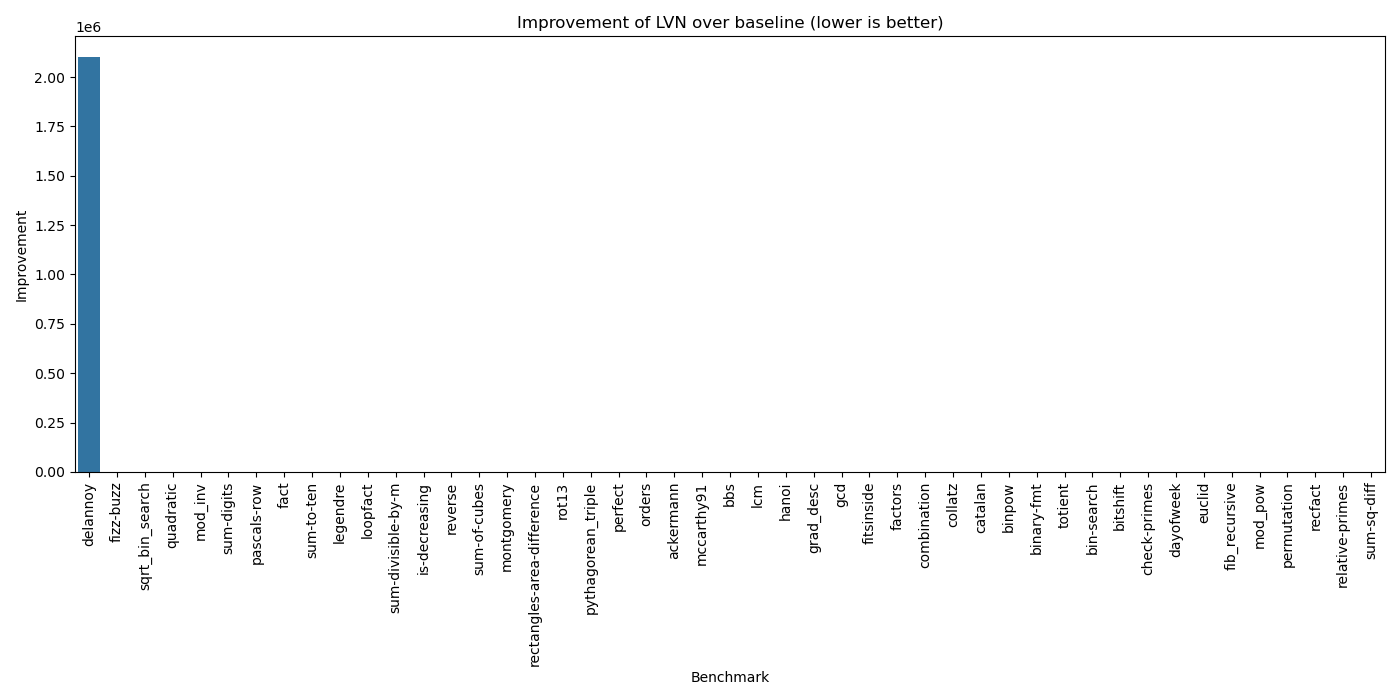
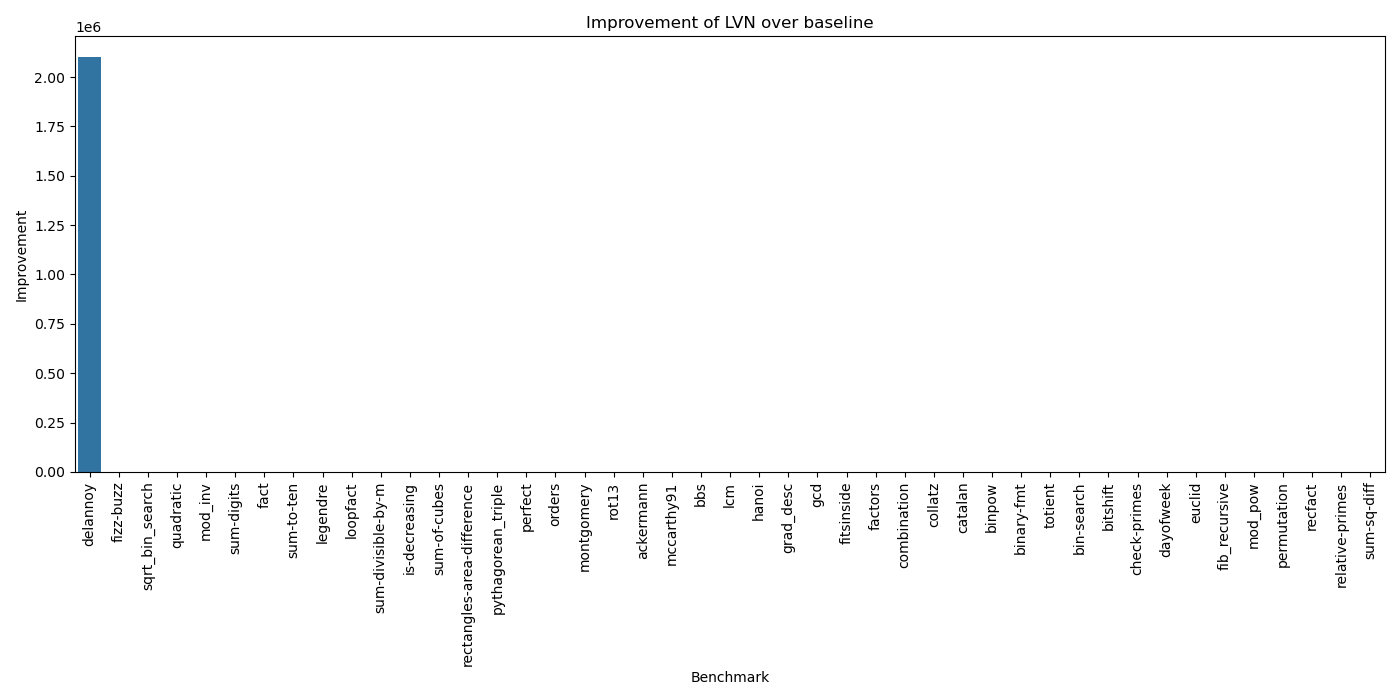
task 7

Changed region(s): [[0.0614, 0.69, 0.9829, 0.93], [0.3686, 0.0, 0.6757, 0.06]]

diff --git a/cs6120/Task2/analysis.py b/cs6120/Task2/analysis.py
@@ -3,7 +3,7 @@ import matplotlib.pyplot as plt
 import seaborn as sns
 
 # Load CSV
-file_path = "./tdce-results.csv"
+file_path = "./lvn-results.csv"
 df = pd.read_csv(file_path)
 
 # Keep track of incorrect/missing/timeout
@@ -18,7 +18,7 @@ df_clean["result"] = df_clean["result"].astype(int)
 pivot_df = df_clean.pivot(index="benchmark", columns="run", values="result").reset_index()
 
 # Compute improvements
-pivot_df["improvement"] = pivot_df["baseline"] - pivot_df["tdce"]
+pivot_df["improvement"] = pivot_df["baseline"] - pivot_df["LVN"]
 pivot_df["percent_improvement"] = 100 * pivot_df["improvement"] / pivot_df["baseline"]
 
 # Compute stats
@@ -36,16 +36,16 @@ summary = {
     "Improved": improved,
     "Unchanged": unchanged,
     "Regressed": regressed,
-    "Incorrect Results (tdce)": incorrect_counts.get("incorrect", 0),
-    "Missing Results (tdce)": incorrect_counts.get("missing", 0),
-    "Timeout Results (tdce)": incorrect_counts.get("timeout", 0),
+    "Incorrect Results (LVN)": incorrect_counts.get("incorrect", 0),
+    "Missing Results (LVN)": incorrect_counts.get("missing", 0),
+    "Timeout Results (LVN)": incorrect_counts.get("timeout", 0),
     "Total Absolute Improvement": total_improvement,
     "Average Improvement": round(avg_improvement, 2),
     "Mean Percent Improvement": round(mean_percent_improvement, 2),
 }
 
 # Save analysis output
-analysis_path = "./tdce_performance_analysis.csv"
+analysis_path = "./LVN_performance_analysis.csv"
 pivot_df.to_csv(analysis_path, index=False)
 
 # Plot improvements
@@ -53,12 +53,12 @@ plt.figure(figsize=(14, 7))
 sorted_df = pivot_df.sort_values("improvement", ascending=False)
 sns.barplot(x="benchmark", y="improvement", data=sorted_df)
 plt.xticks(rotation=90)
-plt.title("Improvement of tdce over baseline (lower is better)")
+plt.title("Improvement of LVN over baseline")
 plt.xlabel("Benchmark")
 plt.ylabel("Improvement")
 plt.tight_layout()
 
-plot_path = "./tdce_improvements_plot.png"
+plot_path = "./LVN_improvements_plot.png"
 plt.savefig(plot_path)
 print("Analysis complete. Summary:", summary)
 
